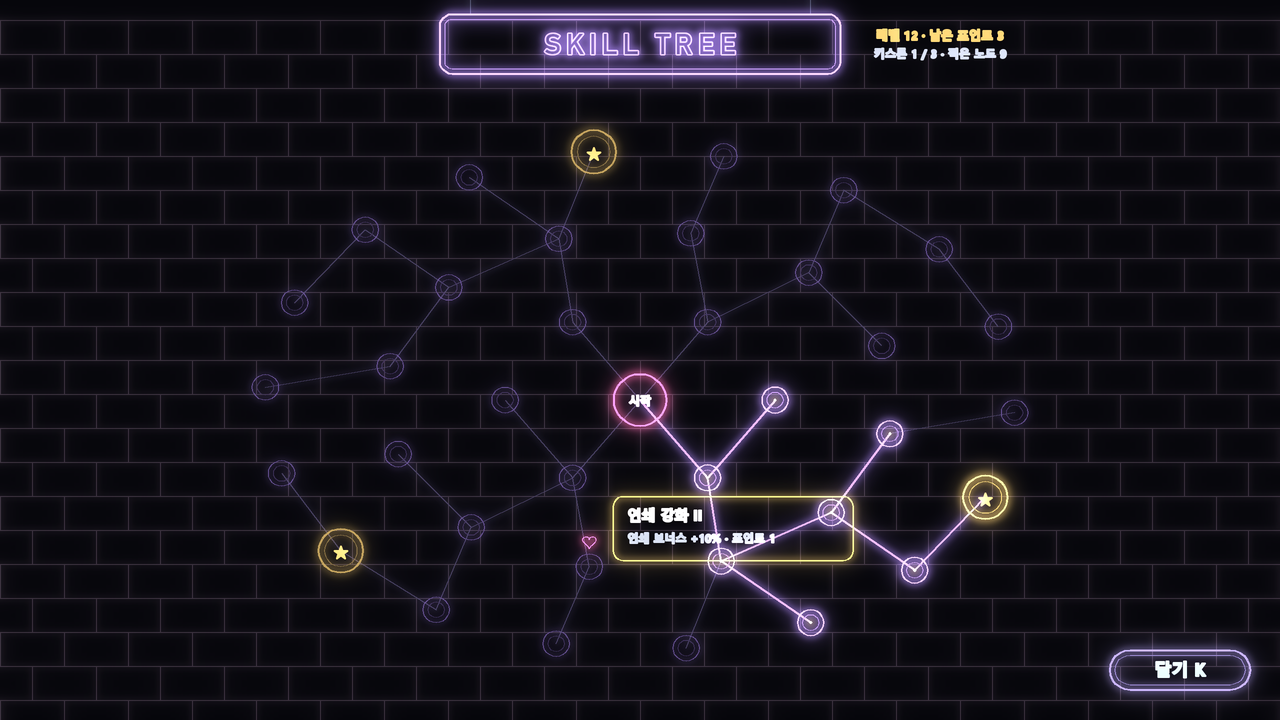
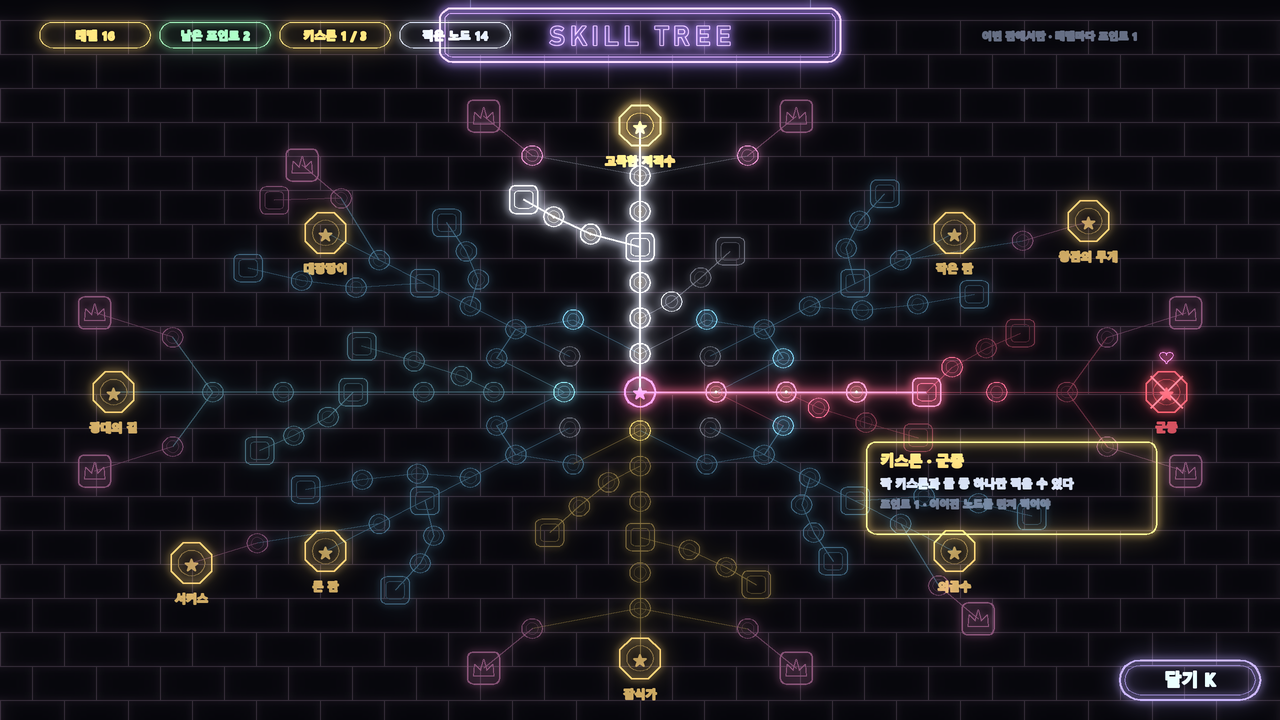
Skill tree mockup redrawn from the real tree data with keystones, jokers, sealed pairs (D-289)

diff --git a/tools/neon/screens_mock.py b/tools/neon/screens_mock.py
@@ -210,54 +210,89 @@ def m_clear():
     return M.draw()
 
 
-# ---------------------------------------------------------------- 6 스킬 트리
+# ---------------------------------------------------------------- 6 스킬 트리 (실제 트리: Source/ProjectB/PDTreeData.inl 그대로)
+KEY_NAMES = ['외골수', '잡식가', '큰 판', '작은 판', '대장장이', '광대의 길', '고독한 저격수', '군중', '왕관의 무게', '서커스']
+THEME_C = {0: (232, 238, 255), 1: (255, 106, 138), 2: (255, 217, 106), 3: (143, 233, 255), 4: (127, 214, 255), 6: (255, 154, 213)}
+
+
+def load_tree():
+    import re
+    src = open(os.path.join(os.path.dirname(__file__), '..', '..', 'Source', 'ProjectB', 'PDTreeData.inl'), encoding='utf-8-sig').read()
+    nodes = []
+    for m in re.finditer(r'\{EPDNode::(\w+), (\d+), ([\d.]+)f, ([\d.]+)f, \{\{EPDStat::(\w+), (\d+),', src):
+        nodes.append((m.group(1), int(m.group(2)), float(m.group(3)), float(m.group(4)), m.group(5), int(m.group(6))))
+    li = src.index('GPDTreeLinks')
+    links = [(int(x), int(y)) for x, y in re.findall(r'\{(\d+), (\d+)\}', src[li:])]
+    return nodes, links
+
+
 def m_tree():
     M = Sign(0.85); M.small_glow = 0.0
     for r in range(0, 22):
         y = 20 + r * 34
-        M.ln([(0, y), (1280, y)], BR, 1.0, 0.55)
+        M.ln([(0, y), (1280, y)], BR, 1.0, 0.5)
         for k in range(21):
             xx = k * 64 + (32 if r % 2 else 0)
-            M.ln([(xx, y), (xx, y + 34)], BR, 1.0, 0.55)
-    # 걸린 간판
-    wires(M, 470, 810, 14)
-    tube(M, 440, 14, 400, 60, 12, (180, 140, 255), 1.0, 2.2)
-    M.word(640, 54, 'SKILL TREE', (180, 140, 255), 28, None, track=5, font=BLOCK)
-    M.word(940, 40, '레벨 12 · 남은 포인트 3', GOLD, 12, None, font=KO)
-    M.word(940, 58, '키스톤 1 / 3 · 찍은 노드 9', FG, 11, None, font=KO)
-    # 노드: 가운데에서 바깥으로 (코스터)
-    rnd = random.Random(8)
-    cx, cy = 640, 400
-    nodes = [(cx, cy, 'start')]
-    for ring, (r, n) in enumerate(((90, 6), (170, 12), (250, 18))):
-        for k in range(n):
-            a = math.tau * k / n + ring * 0.2
-            nodes.append((cx + math.cos(a) * r * 1.5, cy + math.sin(a) * r, 'key' if ring == 2 and k % 6 == 0 else 'n'))
-    owned = {0, 1, 2, 7, 8, 9, 19, 20, 21}
-    for i, (x, y, kind) in enumerate(nodes):  # 이음 선 (안쪽 고리 → 바깥)
-        if i == 0: continue
-        best = min(range(len(nodes)), key=lambda j: (nodes[j][0] - x) ** 2 + (nodes[j][1] - y) ** 2 if j != i and math.hypot(nodes[j][0] - cx, nodes[j][1] - cy) < math.hypot(x - cx, y - cy) - 20 else 1e9)
-        on = i in owned and best in owned
-        M.ln([(x, y), (nodes[best][0], nodes[best][1])], (180, 140, 255) if on else LAV, 2.0 if on else 1.0, 0.9 if on else 0.3)
-    for i, (x, y, kind) in enumerate(nodes):
-        on = i in owned
-        if kind == 'key':
-            M.ln(circle(x, y, 22, 32), GOLD, 2.2, 1.0 if on else 0.5); M.ln(circle(x, y, 16, 32), GOLD, 1.0, 0.6 if on else 0.3)
-            M.word(x, y + 6, '★', GOLD, 14, None, font=KO)
-        elif kind == 'start':
-            M.ln(circle(x, y, 26, 32), PINK, 2.2); M.word(x, y + 5, '시작', WHITE, 11, None, font=KO)
-        else:
-            c = (180, 140, 255)
-            M.ln(circle(x, y, 13, 24), c, 1.8 if on else 1.1, 1.0 if on else 0.4)
-            M.ln(circle(x, y, 8, 20), c, 1.0, 0.6 if on else 0.2)  # 코스터 안쪽 원
-            if on: M.dots.append((x, y, 1.4))
-    # 마우스 올린 노드 툴팁
-    tx, ty = nodes[10][0] + 24, nodes[10][1] - 70
-    M.ln(rr_pts(tx, ty, 240, 64, 10), GOLD, 1.6, 0.9)
-    M.word(tx + 14, ty + 24, '연쇄 강화 II', WHITE, 14, None, font=KO, anchor_center=False)
-    M.word(tx + 14, ty + 46, '연쇄 보너스 +10% · 포인트 1', FG, 11, None, font=KO, anchor_center=False)
-    heart(M, nodes[10][0], nodes[10][1] - 24)
-    btn(M, 1110, 650, 140, 40, '닫기 K', c=LAV)
+            M.ln([(xx, y), (xx, y + 34)], BR, 1.0, 0.5)
+    nodes, links = load_tree()
+    # 찍은 노드 예: 시작 → ♠ 줄 → 외골수 쪽 키스톤 + ♥ 줄 조금
+    owned = {0, 1, 2, 3, 4, 5, 6, 7, 12, 13, 14, 18, 19, 20, 21}
+    sealed = set()
+    for i, n in enumerate(nodes):  # 찍은 키스톤의 짝은 막힘
+        if n[0] == 'Keystone' and i in owned:
+            pair = n[5] ^ 1
+            for j, m in enumerate(nodes):
+                if m[0] == 'Keystone' and m[5] == pair: sealed.add(j)
+    def col(i):
+        n = nodes[i]
+        if n[0] == 'Keystone': return GOLD
+        return THEME_C.get(n[1], (232, 240, 255))
+    nxt = {b for a, b in links if a in owned and b not in owned} | {a for a, b in links if b in owned and a not in owned}
+    for a, b in links:
+        on = a in owned and b in owned
+        c = col(b if a == 0 else a)
+        M.ln([(nodes[a][2], nodes[a][3]), (nodes[b][2], nodes[b][3])], c, 2.2 if on else 1.0, 0.95 if on else 0.28)
+    for i, (kind, th, x, y, stat, prm) in enumerate(nodes):
+        on, nx, se = i in owned, i in nxt, i in sealed
+        c = RED if se else col(i)
+        b = 1.0 if on else 0.75 if nx else 0.35
+        if kind == 'Start':
+            M.ln(circle(x, y, 15, 32), PINK, 2.2); M.word(x, y + 5, '★', PINK, 13, None, font=KO)
+        elif kind == 'Small':  # 코스터: 바깥 원 + 안쪽 원
+            M.ln(circle(x, y, 10, 24), c, 1.6 if on else 1.1, b); M.ln(circle(x, y, 6, 18), c, 0.9, b * 0.6)
+            if on: M.dots.append((x, y, 1.2))
+        elif kind == 'Notable':  # 네모 코스터
+            M.ln(rr_pts(x - 14, y - 14, 28, 28, 6), c, 1.8 if on else 1.2, b); M.ln(rr_pts(x - 9, y - 9, 18, 18, 4), c, 1.0, b * 0.6)
+        elif kind == 'Keystone':  # 금색 팔각 큰 코스터 + 이름
+            oct_ = [(x + math.cos(math.radians(22.5 + 45 * k)) * 22, y + math.sin(math.radians(22.5 + 45 * k)) * 22) for k in range(9)]
+            M.ln(oct_, c, 2.4 if on else 1.6, 1.0 if on else 0.7)
+            M.ln(circle(x, y, 13, 24), c, 1.0, 0.6 if on else 0.35)
+            M.word(x, y + 6, '★', c, 13, [1.0 if on else 0.6], font=KO)
+            name = KEY_NAMES[prm]
+            M.word(x, y + 40, name, c, 11, [1.0 if on else 0.75] * len(name), font=KO)
+            if se:
+                M.ln([(x - 16, y - 16), (x + 16, y + 16)], RED, 1.8); M.ln([(x + 16, y - 16), (x - 16, y + 16)], RED, 1.8)
+        elif kind == 'Joker':  # 조커 칸: 둥근 상자 + 광대 모자
+            M.ln(rr_pts(x - 16, y - 16, 32, 32, 6), (255, 154, 213), 1.6, b)
+            M.ln([(x - 10, y + 8), (x - 9, y - 4), (x - 3, y + 2), (x, y - 9), (x + 3, y + 2), (x + 9, y - 4), (x + 10, y + 8), (x - 10, y + 8)], (255, 154, 213), 1.2, b)
+    # 걸린 간판 + 정보 알약
+    wires(M, 470, 810, 8)
+    tube(M, 440, 8, 400, 54, 12, (180, 140, 255), 1.0, 2.2)
+    M.word(640, 45, 'SKILL TREE', (180, 140, 255), 26, None, track=5, font=BLOCK)
+    for k, (t, c) in enumerate((('레벨 16', GOLD), ('남은 포인트 2', MINT), ('키스톤 1 / 3', GOLD), ('찍은 노드 14', FG))):
+        px = 40 + k * 120
+        M.ln(rr_pts(px, 22, 110, 26, 13), c, 1.3, 0.8)
+        M.word(px + 55, 40, t, c, 11, None, font=KO)
+    M.word(1240, 40, '이번 판에서만 · 레벨이 오를 때마다 포인트 1', DIM, 10, None, font=KO, anchor_center=False) if False else M.word(1060, 40, '이번 판에서만 · 레벨마다 포인트 1', DIM, 10, None, font=KO)
+    # 툴팁: 키스톤 위에 마우스
+    kx, ky = nodes[24][2], nodes[24][3]
+    heart(M, kx, ky - 34)
+    tx, ty = kx - 300, ky + 50
+    M.ln(rr_pts(tx, ty, 290, 92, 10), GOLD, 1.8, 0.9)
+    M.word(tx + 14, ty + 24, '키스톤 · ' + KEY_NAMES[nodes[24][5]], GOLD, 14, None, font=KO, anchor_center=False)
+    M.word(tx + 14, ty + 46, '짝 키스톤과 둘 중 하나만 찍을 수 있다', FG, 11, None, font=KO, anchor_center=False)
+    M.word(tx + 14, ty + 66, '포인트 1 · 이어진 노드를 먼저 찍어야', DIM, 10, None, font=KO, anchor_center=False)
+    btn(M, 1120, 660, 140, 40, '닫기 K', c=LAV)
     return M.draw()
 
 

diff --git a/docs/05-decision-log.md b/docs/05-decision-log.md
@@ -292,3 +292,4 @@
 | D-286 | 2026-11-15 | 칵테일 보상 화면을 시안 C(바텐더 추천)로 구현: 전구가 도는 주황 'BARTENDER'S CHOICE' 간판(속 빈 네온 글자) + '웨이브 N 칵테일 — 하나를 고른다', 연보라 선반 위 잔 셋(칵테일 번호로 마티니 · 하이볼 · 온더록 잔, 서비스(즉시 보상)는 칩 접시), 아래 가격표 꼬리표에 이름 · 효과, 그 아래 '칵테일 · 1' / '서비스 · 3'. 마우스를 올린 잔은 술이 차고(올리브 · 빨대 · 얼음) 위에서 병이 기울어 술줄기가 흔들리며 따라진다 — 시안의 하트(커서)와 긴 선(술줄기)을 병으로 알아보기 쉽게. 칸(RewardPos/RewardH)은 잔부터 꼬리표 아래까지. 에디터 F9 = 보상 화면 미리 보기 | 사용자: 3번 안으로, 하트랑 긴 선은 뭐냐 | 카드 셋 (D-101) |
 | D-287 | 2026-11-15 | 인게임 메뉴(Esc)에 '메인 메뉴로' 버튼 (계속하기 · 새 게임 · 메인 메뉴로 · 설정 · 게임 종료): 판을 저장해 두고(준비 중이면 지금 상태, 웨이브 중이면 웨이브 직전 저장) 시작 화면으로, '이어하기'가 골라진 채로. 칩은 판이 끝날 때만 받는 그대로 | 사용자: 메뉴에 메뉴 화면으로 가는 버튼 | — |
 | D-288 | 2026-11-15 | 남은 옛 모양 화면 6개의 네온 바 시안 (스팀 덱 · 패드는 보류): 1 메뉴(Esc) = 'BREAK TIME' 걸린 전구 간판 + 두 겹 튜브 버튼 다섯, 2 설정 = 주크박스(전구 아치 'JUKEBOX', 줄마다 이름 ···· 튜브 알약 선택지, 소리는 믹서 페이더 셋), 3 모드 고르기 = 바 부스 넷 'BOOTH 30 · 60 · 100 · ∞'(차양 + 문틀, 잠긴 부스는 불 꺼진 튜브 + 자물쇠, 클리어한 부스는 금별), 4 게임 오버 = 꺼져 가는 'LAST CALL' 간판 + 바 영수증(웨이브 · 처치 · 레벨 · 최고 기록 · 랭킹 · 받은 칩 합계) + 다시 한 판 / 메인 메뉴로, 5 클리어 = 'CHEERS!' 간판 + 잔 부딪치기 불꽃 + 영수증(클리어 덤 · 새로 열린 모드), 6 스킬 트리 = 벽돌 벽 위 코스터 노드를 네온 튜브로 이음, 키스톤은 금색 큰 코스터 (tools/neon/screens_mock.py) | 사용자: 옛날 모양 화면 남은 것들 시안 | — |
+| D-289 | 2026-11-15 | 스킬 트리 시안을 실제 트리(PDTreeData.inl 134 노드 · 연결)로 다시 그림: 작은 노드 = 둥근 코스터(무늬 색), 큰 노드 = 네모 코스터, 키스톤 10개 = 금색 팔각 큰 코스터 + 이름(외골수 · 잡식가 · 큰 판 · 작은 판 · 대장장이 · 광대의 길 · 고독한 저격수 · 군중 · 왕관의 무게 · 서커스), 찍은 키스톤의 짝은 빨간 X(막힘), 조커 노드는 광대 모자 상자, 찍은 길은 굵게 켜짐, 위에 정보 알약(레벨 · 남은 포인트 · 키스톤 n/3 · 찍은 노드) + 걸린 'SKILL TREE' 간판, 키스톤 툴팁 | 사용자: 키스톤 같은 게 빠진 기분 | 지어낸 트리 모양 (D-288) |
